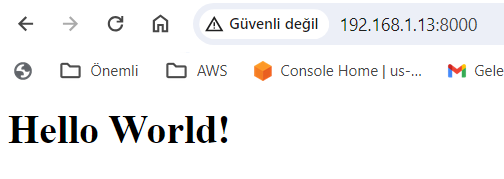
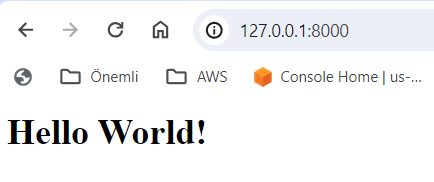
readme updated

diff --git a/README.md b/README.md
@@ -36,7 +36,7 @@ Vagrant.configure("2") do |config|
 
   config.vm.box = "ubuntu/focal64"
 
-  config.vm.network "public_network"
+  config.vm.network "forwarded_port", guest: 8000, host: 8000
 
   config.vm.provision "file", source: "./app", destination: "~/app"
   
@@ -45,13 +45,17 @@ Vagrant.configure("2") do |config|
     sudo apt-get install -y python3 python3-pip
     sudo pip3 install flask gunicorn
   SHELL
+  
+  config.vm.provision "shell", run: "always", inline: <<-SHELL
+    cd app && gunicorn --bind 0.0.0.0:8000 app:app &
+  SHELL
 end
 
 ```
-DHCP den ip alabilmesi için sanal makinenin network ayarı public olarak yapıldı.
+Sanal makinede çalıştırılan portun host makinede erişilebilmesi için ilgili port `guest` parametresine tanımlanır. Host makinede erişilmesi istenilen port ise `host` parametresine tanımlanır. Bu şekilde tanımlanan port, host makinede `localhost` üzerinden erişim sağlanır.
 
 ```ruby
-config.vm.network "public_network"
+config.vm.network "forwarded_port", guest: 8000, host: 8000
 ```
 Aşağıdaki satır ile sanal makineye dosyaların kopyalanmasını sağlar. Kaynak (source) ve hedef (destination) dizinler belirtilir. 
 
@@ -74,6 +78,14 @@ Aşağıdaki satır ile sanal makineye dosyaların kopyalanmasını sağlar. Kay
 
 Gunicorn, Python uygulamalarının web sunucusu olarak çalıştırılmasını sağlar ve bu durumda bir Flask uygulamasını çalıştırmak için kullanılmaktadır.
 
+Sanal makine her ayağa kalktığında (`vagrant up`) uygulamanın çalışması için `run always` yazılır. Uygulamayı çalıştırmak için gunicorn komutu kullanılır. Sunucunun tüm ağ arayüzlerinden gelen istekleri kabul etmesi için `--bind 0.0.0.0:8000` parametresi eklenir. 
+
+```ruby
+  config.vm.provision "shell", run: "always", inline: <<-SHELL
+    cd app && gunicorn --bind 0.0.0.0:8000 app:app &
+  SHELL
+```
+
 1. Sanal makineyi başlatmak için bu komut çalıştırılır
 
     ```bash
@@ -82,31 +94,15 @@ Gunicorn, Python uygulamalarının web sunucusu olarak çalıştırılmasını s
     
     ![](./doc/vm.png)
 
-2. Sanal makineye SSH ile bağlanmak için:
-
-    ```bash
-    vagrant ssh
-    ```
-
-3. Uygulama dizinine gidilerek, uygulama Gunicorn ile çalıştırılır.
-
-   ```bash
-   gunicorn --bind 0.0.0.0:8000 app:app
-   ```
-	--bind 0.0.0.0:8000 Bu, Gunicorn sunucusunun hangi IP adresi ve port üzerinde dinleyeceğini belirtir. app:app Bu, Gunicorn sunucusunun çalıştırılacak uygulamayı belirtir. 
-    
-
-4. Sanal makine ip'sini öğrenmek için `ifconfig` komutu kullanılır. İlgili ip ve port numarası web browser üzerinden girilerek test edilir.
-
     ![Hello World](./doc/app.png)
 
-5. Sanal makineyi kapatmak için:
+2. Sanal makineyi kapatmak için:
 
     ```bash
     vagrant halt
     ```
 
-6. Sanal makinayı tamamen silmek için:
+3. Sanal makinayı tamamen silmek için:
 
     ```bash
     vagrant destroy
